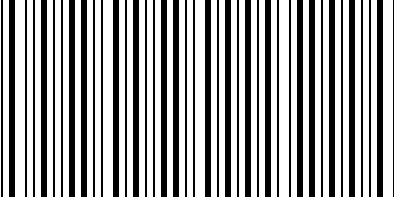
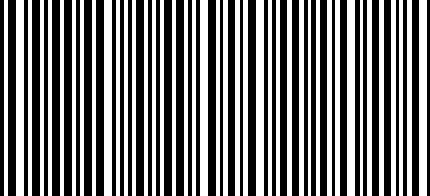
adjusted decoder function input

diff --git a/Decoder.py b/Decoder.py
@@ -2,85 +2,180 @@ import numpy as np
 import cv2 as cv
 
 
-# 0 means narrow, 1 means wide
-NARROW = "0"
-WIDE = "1"
-code11_widths = {
-    "00110": "Stop/Start",
-    "10001": "1",
-    "01001": "2",
-    "11000": "3",
-    "00101": "4",
-    "10100": "5",
-    "01100": "6",
-    "00011": "7",
-    "10010": "8",
-    "10000": "9",
-    "00001": "0",
-    "00100": "-",
-}
+# def adjust_bar_sizes(pixels, narrow_bar_size, wide_bar_size):
+#     max_wide_size = wide_bar_size * 1.5   #  Allow for slightly larger wide bars
+#     bar_widths = []
 
-img = cv.imread("UniformImage.jpg", cv.IMREAD_GRAYSCALE) 
+#     current_width = 0
+#     for pixel in pixels:
+#         if pixel == "1":
+#             if current_width > 0:
+#                 current_width += 1
+#                 bar_widths.append(current_width)
+            
+#             current_width = 0
+#             current_width += 1
+            
+#         else:
+#             if current_width > 0:
+#                current_width += 1
+#                bar_widths.append(current_width)
+#             # bar_widths.append(current_width)
+#             current_width = 0
+#             current_width += 1
+            
 
+#     if current_width > 0:
+#         bar_widths.append(current_width)
 
-# Get the average of each column in your image
-mean = img.mean(axis=0)
-# print(mean)
+#     narrow_bars = [w for w in bar_widths if w <= narrow_bar_size]
+#     wide_bars = [w for w in bar_widths if narrow_bar_size < w <= max_wide_size]
 
-# Set it to black or white based on its value
-mean[mean <= 127] = 1
-mean[mean > 128] = 0
+#     if wide_bars:
+#         wide_bar_size = int(np.mean(wide_bars))
 
-# Convert to string of pixels in order to loop over it
-pixels = ''.join(mean.astype(np.uint8).astype(str))
-# print(pixels)
-for i in range(0, len(pixels), 8):
-    print(pixels[i:i+8])
+#     return narrow_bars, wide_bars
 
+def detect_and_normalize_bar_sizes(pixels, narrow_bar_size, wide_bar_size,):
+    bar_widths = []
+    current_width = 1
+    current_pixel = pixels[0]
 
-# Need to figure out how many pixels represent a narrow bar
-narrow_bar_size = 0
-for pixel in pixels:
-    if pixel == "1":
-        narrow_bar_size += 1
-        print(narrow_bar_size)
-    else:
-        break
+    for pixel in pixels[1:]:
+        if pixel == current_pixel:
+            current_width += 1
+            # print(f"current pixel is : {current_pixel}")
+        else:
+            bar_widths.append((current_pixel, current_width))
+            current_width = 1
+            current_pixel = pixel
 
+    if current_width > 0:
+        bar_widths.append((current_pixel, current_width))
 
-wide_bar_size = narrow_bar_size * 2
-
-digits = []
-pixel_index = 0
-current_digit_widths = ""
-skip_next = False
-
-
-
-while pixel_index < len(pixels):
-
-
+    # narrow_bar_size = min(width for _, width in bar_widths)
+    # wide_bar_size = 2* narrow_bar_size
+    # wide_bar_size = min(width for _, width in bar_widths if width > narrow_bar_size)
+    print(f"Detected wide bar size: {wide_bar_size}")
+    normalized_pixels = []
     
+    for pixel, width in bar_widths:
+        if width <= narrow_bar_size:
+            normalized_pixels.append((pixel, narrow_bar_size))
+        # elif narrow_bar_size < width <= wide_bar_size:
+        #     normalized_pixels.append((pixel, wide_bar_size))
+        elif width > narrow_bar_size:
+            if width % wide_bar_size == 0:
+                normalized_pixels.extend([(pixel, (2*narrow_bar_size))] * (width // wide_bar_size))
+            else:
+                normalized_pixels.extend([(pixel, (2*narrow_bar_size))] * (width // wide_bar_size))
+                normalized_pixels.append((pixel, narrow_bar_size))
+            # normalized_pixels.append((pixel, narrow_bar_size))
+            # normalized_pixels.append((pixel, narrow_bar_size
+            
+    normalized_pixel_str = ''.join(
+        ('1' * width) if pixel == '1' else ('0' * width) for pixel, width in normalized_pixels
+    )
 
-    if skip_next:
-        pixel_index += narrow_bar_size
-        skip_next = False
-        continue
+    return normalized_pixel_str
+    
+# def detect_bar_sizes(pixels):
+#     bar_widths = []
+#     current_width = 1
+#     current_pixel = pixels[0]
 
-    count = 1
-    try:                                                      # 1 1 1 1 0 0 0 0 1 1 1  1  1  1  1  1 
-        while pixels[pixel_index] == pixels[pixel_index + 1]: # 0 1 2 3 4 5 6 7 8 9 10 11 12 13 14 15 
-            count += 1
-            pixel_index += 1
-    except:
-        pass
-    pixel_index += 1
+#     for pixel in pixels[1:]:
+#         if pixel == current_pixel:
+#             current_width += 1
+#         else:
+#             bar_widths.append(current_width)
+#             current_width = 1
+#             current_pixel = pixel
 
-    current_digit_widths += NARROW if count == narrow_bar_size else WIDE
+#     if current_width > 0:
+#         bar_widths.append(current_width)
 
-    if current_digit_widths in code11_widths:
-        digits.append(code11_widths[current_digit_widths])
-        current_digit_widths = ""
-        skip_next = True  # Next iteration will be a separator, so skip it
+#     narrow_bar_size = min(bar_widths)
+#     wide_bar_size = max(w for w in bar_widths if w > narrow_bar_size)
+#     return narrow_bar_size, wide_bar_size
 
-print(digits)
+def decode_barcode():
+    # 0 means narrow, 1 means wide
+    NARROW = "0"
+    WIDE = "1"
+    code11_widths = {
+        "00110": "Stop/Start",
+        "10001": "1",
+        "01001": "2",
+        "11000": "3",
+        "00101": "4",
+        "10100": "5",
+        "01100": "6",
+        "00011": "7",
+        "10010": "8",
+        "10000": "9",
+        "00001": "0",
+        "00100": "-",
+    }
+    img = cv.imread("UniformImage.jpg", cv.IMREAD_GRAYSCALE) 
+    # Get the average of each column in your image
+    mean = img.mean(axis=0)
+    # print(mean)
+    # Set it to black or white based on its value
+    mean[mean <= 127] = 1
+    mean[mean > 128] = 0
+    # Convert to string of pixels in order to loop over it
+    pixels = ''.join(mean.astype(np.uint8).astype(str))
+    print(pixels)
+    for i in range(0, len(pixels), 8):
+        print(pixels[i:i+8])
+    # Need to figure out how many pixels represent a narrow bar
+    narrow_bar_size = 0
+    for pixel in pixels:
+        if pixel == "1":
+            narrow_bar_size += 1
+            print(narrow_bar_size)
+        else:
+            break
+    
+    wide_bar_size = narrow_bar_size * 2
+    
+    print(f"Detected narrow bar size: {narrow_bar_size}")
+    print(f"Detected wide bar size: {wide_bar_size}")
+    
+    # narrow_bar_size, wide_bar_size = detect_bar_sizes(pixels)
+    pixels = detect_and_normalize_bar_sizes(pixels, narrow_bar_size, wide_bar_size)
+    # print(f"Detected narrow bar size: {narrow_bar_size}")
+    # print(f"Detected wide bar size: {wide_bar_size}")
+    
+    print(f"Detected pixels: {pixels}")
+
+    digits = []
+    pixel_index = 0
+    current_digit_widths = ""
+    skip_next = False
+    while pixel_index < len(pixels):
+        
+        if skip_next:
+            pixel_index += narrow_bar_size
+            skip_next = False
+            continue
+        count = 1
+        try:                                                      # 1 1 1 1 0 0 0 0 1 1 1  1  1  1  1  1 
+            while pixels[pixel_index] == pixels[pixel_index + 1]: # 0 1 2 3 4 5 6 7 8 9 10 11 12 13 14 15 
+                count += 1
+                pixel_index += 1
+        except:
+            pass
+        pixel_index += 1
+        if count == narrow_bar_size: 
+            current_digit_widths += NARROW
+        else:
+            current_digit_widths += WIDE
+         
+        print(current_digit_widths)
+        if current_digit_widths in code11_widths:
+            digits.append(code11_widths[current_digit_widths])
+            current_digit_widths = ""
+            skip_next = True  # Next iteration will be a separator, so skip it
+    print(digits)

diff --git a/ErosionAndDilation.py b/ErosionAndDilation.py
@@ -4,6 +4,7 @@ import cv2
 import numpy as np
 import matplotlib.pyplot as plt
 from scipy.signal import find_peaks
+import Decoder 
 
 def AdaptiveGaussian(img):
 	
@@ -330,7 +331,7 @@ def noiseReductionSaltAndPeper(image_path):
 
 def make_columns_uniform(image):
     height, width = image.shape
-    num_parts = 6
+    num_parts = 10
     part_height = height // num_parts
     
     for x in range(width):
@@ -345,7 +346,7 @@ def make_columns_uniform(image):
             unique, counts = np.unique(part_pixels, return_counts=True)
             
             for idx, item in enumerate(unique):
-                if item >= 128:
+                if item >= 150:
                     unique[idx] = 255
                 else:
                     unique[idx] = 0
@@ -480,17 +481,17 @@ def detect_barcode(image):
         heightB = np.sqrt(((bx - cx) ** 2) + ((by - cy) ** 2))
         height = max(int(heightA), int(heightB))
         
-        print(width, height)
-        print (x, y, w, h)
-        print(ax, ay, bx, by, cx, cy, dx, dy)
-        if x < border_threshold:
-            x = 0
-        if x + w > width - border_threshold:
-            w = width - x
-        if y < border_threshold:
-            y = 0
-        if y + h > height - border_threshold:
-            h = height - y
+        # print(width, height)
+        # print (x, y, w, h)
+        # print(ax, ay, bx, by, cx, cy, dx, dy)
+        # if x < border_threshold:
+        #     x = 0
+        # if x + w > width - border_threshold:
+        #     w = width - x
+        # if y < border_threshold:
+        #     y = 0
+        # if y + h > height - border_threshold:
+        #     h = height - y
 
         # Draw the extended bounding box
         # cv2.rectangle(image, (x, y), (x + w, y + h), (0, 0, 255), 2)
@@ -501,7 +502,7 @@ def detect_barcode(image):
         
         pts1 = np.float32([[bx, by], [ax, ay], [cx, cy], [dx, dy]])
         pts2 = np.float32([[0, 0], [width, 0], [0, height], [width, height]])
-
+        
         matrix = cv2.getPerspectiveTransform(pts1, pts2)
         img_prespective = cv2.warpPerspective(image, matrix, (width, height))
         # cv2.circle(image, (ax,ay), 5, (0,0,255), 20)
@@ -523,7 +524,9 @@ def detect_barcode(image):
         uniform_image = make_columns_uniform(img_prespective)
         cv2.imshow("Uniform Image", uniform_image)
         cv2.imwrite("UniformImage.jpg", uniform_image)
-    cv2.waitKey(0)
+        decoded_digits = Decoder.decode_barcode()
+        print(decoded_digits)
+        cv2.waitKey(0)
 
 def sharpen_image(image):
     # Define the sharpening kernel
@@ -606,14 +609,14 @@ def applydynamic_threshold(image, avg_intensity):
 # image_path ="Test Cases\\01 - lol easy.jpg" #Done
 # image_path ="Test Cases\\02 - still easy.jpg" #Done
 # image_path ="Test Cases\\03 - eda ya3am ew3a soba3ak mathazarsh.jpg" #Done
-image_path ="Test Cases\\04 - fen el nadara.jpg" #Decoder Can't detect the barcode
+# image_path ="Test Cases\\04 - fen el nadara.jpg" #Decoder Can't detect the barcode
 # image_path ="Test Cases\\05 - meen taffa el nour!!!.jpg" #Decoder Can't detect the barcode
 # image_path ="Test Cases\\06 - meen fata7 el nour 333eenaaayy.jpg" #Decoder Can't detect the barcode
 # image_path ="Test Cases\\07 - mal7 w felfel.jpg" #Decoder Can't detect the barcode
 # image_path ="Test Cases\\08 - compresso espresso.jpg" #Decoder Can't detect the barcode
 # image_path ="Test Cases\\09 - e3del el soora ya3ammm.jpg" #Decoder Can't detect the barcode
 # image_path ="Test Cases\\10 - wen el kontraastttt.jpg" #Decoder Can't detect the barcode
-# image_path = "Test Cases\\11 - bayza 5ales di bsara7a.jpg" #Decoder Can't detect the barcode
+image_path = "Test Cases\\11 - bayza 5ales di bsara7a.jpg" #Decoder Can't detect the barcode
 img = cv2.imread(image_path, 0)
 
 
@@ -676,8 +679,11 @@ if is_salt_pepper:
         dil_img = cv2.dilate(thresholded_image, kernel, iterations=1)
         detect_barcode(dil_img)
 else:
+    print("No Salt and Pepper Noise")
     result =increase_contrast(img)
     detect_barcode(result)
+    
+
 
         
 
